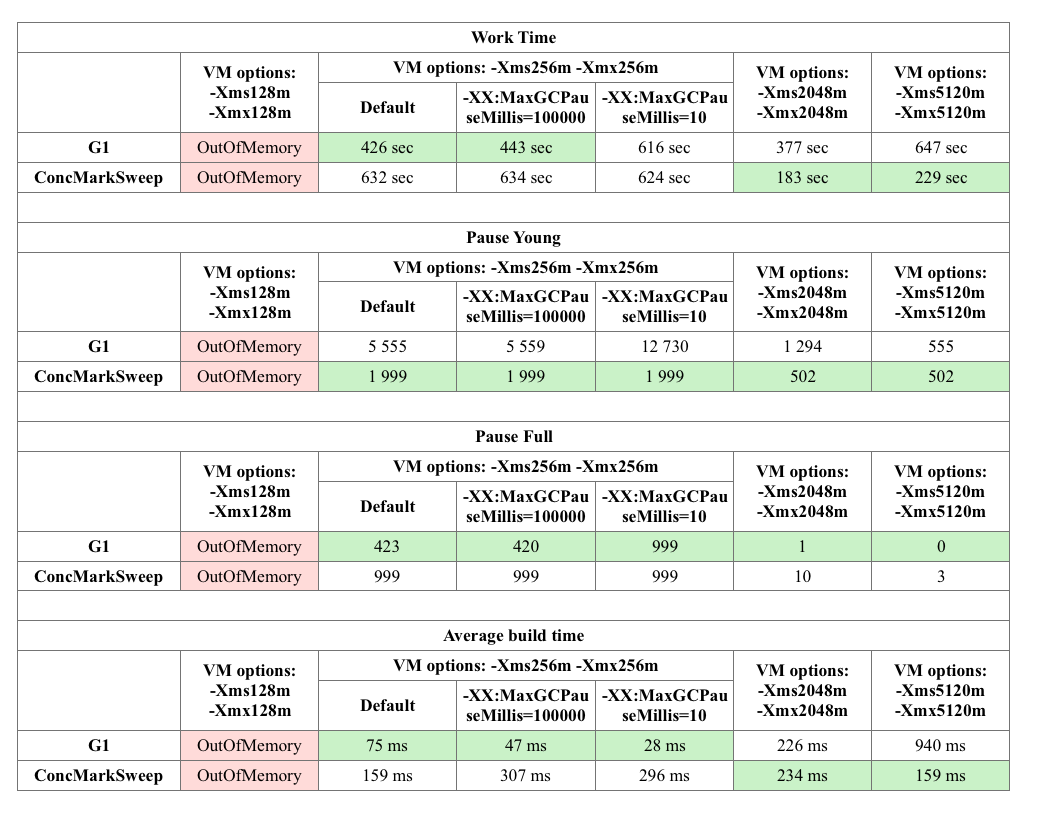
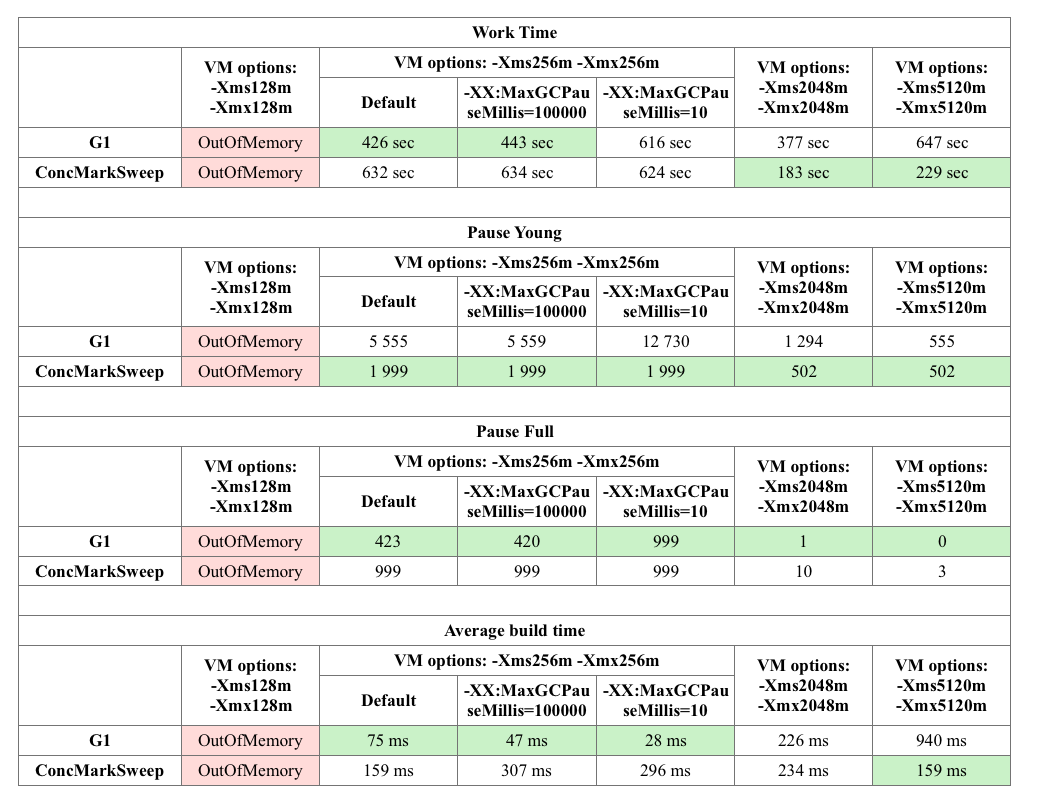
Выполнено домашнее задание №3

Changed region(s): [[0.0, 0.0, 0.9743, 0.9877], [0.8525, 0.3086, 0.9439, 0.3704]]

diff --git a/hw03-garbageCollector/src/main/java/me/decentos/bench/GcDemo.java b/hw03-garbageCollector/src/main/java/me/decentos/bench/GcDemo.java
@@ -1,0 +1,71 @@
+package me.decentos.bench;
+
+import com.sun.management.GarbageCollectionNotificationInfo;
+
+import javax.management.MBeanServer;
+import javax.management.NotificationEmitter;
+import javax.management.NotificationListener;
+import javax.management.ObjectName;
+import javax.management.openmbean.CompositeData;
+import java.lang.management.GarbageCollectorMXBean;
+import java.lang.management.ManagementFactory;
+import java.util.List;
+
+/*
+-Xms256m
+-Xmx256m
+-Xlog:gc=debug:file=./hw03-garbageCollector/logs/gc-%p-%t.log:tags,uptime,time,level:filecount=5,filesize=10m
+-XX:+HeapDumpOnOutOfMemoryError
+-XX:HeapDumpPath=./logs/dump
+-XX:+UseG1GC
+*/
+
+/*
+1) default
+2) -XX:MaxGCPauseMillis=100000
+3) -XX:MaxGCPauseMillis=10
+4) -Xms2048m -Xmx2048m
+5) -Xms5120m -Xmx5120m
+*/
+
+public class GcDemo {
+    public static void main(String... args) throws Exception {
+        System.out.println("Starting pid: " + ManagementFactory.getRuntimeMXBean().getName());
+        switchOnMonitoring();
+        long beginTime = System.currentTimeMillis();
+
+        int size = 5 * 1000 * 1000;
+        int loopCounter = 1000;
+        MBeanServer mbs = ManagementFactory.getPlatformMBeanServer();
+        ObjectName name = new ObjectName("me.decentos:type=Benchmark");
+
+        Benchmark mbean = new Benchmark(loopCounter);
+        mbs.registerMBean(mbean, name);
+        mbean.setSize(size);
+        mbean.run();
+
+        System.out.println("time:" + (System.currentTimeMillis() - beginTime) / 1000);
+    }
+
+    private static void switchOnMonitoring() {
+        List<GarbageCollectorMXBean> gcbeans = java.lang.management.ManagementFactory.getGarbageCollectorMXBeans();
+        for (GarbageCollectorMXBean gcbean : gcbeans) {
+            System.out.println("GC name:" + gcbean.getName());
+            NotificationEmitter emitter = (NotificationEmitter) gcbean;
+            NotificationListener listener = (notification, handback) -> {
+                if (notification.getType().equals(GarbageCollectionNotificationInfo.GARBAGE_COLLECTION_NOTIFICATION)) {
+                    GarbageCollectionNotificationInfo info = GarbageCollectionNotificationInfo.from((CompositeData) notification.getUserData());
+                    String gcName = info.getGcName();
+                    String gcAction = info.getGcAction();
+                    String gcCause = info.getGcCause();
+
+                    long startTime = info.getGcInfo().getStartTime();
+                    long duration = info.getGcInfo().getDuration();
+
+                    System.out.println("start:" + startTime + " Name:" + gcName + ", action:" + gcAction + ", gcCause:" + gcCause + "(" + duration + " ms)");
+                }
+            };
+            emitter.addNotificationListener(listener, null, null);
+        }
+    }
+}

diff --git a/hw03-garbageCollector/src/main/java/me/decentos/bench/Benchmark.java b/hw03-garbageCollector/src/main/java/me/decentos/bench/Benchmark.java
@@ -1,0 +1,33 @@
+package me.decentos.bench;
+
+class Benchmark implements BenchmarkMBean {
+    private final int loopCounter;
+    private volatile int size = 0;
+
+    public Benchmark(int loopCounter) {
+        this.loopCounter = loopCounter;
+    }
+
+    void run() throws InterruptedException {
+        for (int idx = 0; idx < loopCounter; idx++) {
+            int local = size;
+            Object[] array = new Object[local];
+            for (int i = 0; i < local; i++) {
+                array[ i ] = new String(new char[0]);
+            }
+            Thread.sleep(10);
+        }
+    }
+
+    @Override
+    public int getSize() {
+        return size;
+    }
+
+    @Override
+    public void setSize(int size) {
+        System.out.println("new size:" + size);
+        this.size = size;
+    }
+
+}

diff --git a/hw03-garbageCollector/src/main/java/me/decentos/bench/BenchmarkMBean.java b/hw03-garbageCollector/src/main/java/me/decentos/bench/BenchmarkMBean.java
@@ -1,0 +1,7 @@
+package me.decentos.bench;
+
+public interface BenchmarkMBean {
+    int getSize();
+
+    void setSize(int size);
+}

diff --git a/hw03-garbageCollector/Сonclusions.md b/hw03-garbageCollector/Сonclusions.md
@@ -1,0 +1,49 @@
+Сравнение разных сборщиков мусора:
+
+**G1:**
+
+1. При передаче "VM options: -Xms128m -Xmx128m" произошло java.lang.OutOfMemoryError: Java heap space
+2. VM options: -Xms256m -Xmx256m:
+
+    2.1. Default, time: 426 sec, Yong = 5 555, Full = 423, Avg build time = 75 ms
+
+    2.2. -XX:MaxGCPauseMillis=100000, time: 443 sec, Yong = 5 559, Full = 420, Avg build time = 47 ms
+
+    2.3. -XX:MaxGCPauseMillis=10, time: 616 sec, Yong = 12 730, Full = 999, Avg build time = 28 ms
+
+3. VM options: -Xms2048m -Xmx2048m, time: 377 sec, Yong = 1 294, Full = 1, Avg build time = 226 ms
+4. VM options: -Xms5120m -Xmx5120m, time: 647 sec, Yong = 555, Full = 0, Avg build time = 940 ms
+
+**ConcMarkSweep:**
+
+1. При передаче "VM options: -Xms128m -Xmx128m" произошло java.lang.OutOfMemoryError: Java heap space
+2. VM options: -Xms256m -Xmx256m:
+
+    2.1. Default, time: 632 sec, Yong = 1 999, Full = 999, Avg build time = 159 ms
+
+    2.2. -XX:MaxGCPauseMillis=100000, time: 634 sec, Yong = 1 999, Full = 999, Avg build time = 307 ms
+
+    2.3. -XX:MaxGCPauseMillis=10, time: 624 sec, Yong = 1 999, Full = 999, Avg build time = 296 ms
+
+3. VM options: -Xms2048m -Xmx2048m, time: 183 sec, Yong = 502, Full = 10, Avg build time = 234 ms
+4. VM options: -Xms5120m -Xmx5120m, time: 229 sec, Yong = 502, Full = 3, Avg build time = 159 ms
+
+**Сравнительная таблица:**
+
+![GC Compare Table](https://github.com/decentos/OtusJavaProject/tree/hw03-garbageCollector/hw03-garbageCollector/GcCompareTable.png)
+
+**Выводы:**
+
+При сравнении двух Garbage Collector (G1 и ConcMarkSweep) можно сделать следующий вывод: 
+1. Программа быстрее завершила работу при использовании G1, если под работу JVM выделено небольшое количество оперативной памяти (тестировалась работа на 256m).
+2. Если под работу JVM выделяется более 2048m, то программа завершает выполнение быстрее при использовании ConcMarkSweep.
+3. При использовании ConcMarkSweep реже происходит сборка мусора Young Generation вне зависимости от переданных параметров в JVM.
+4. При использовании G1 реже происходит сборка мусора Old (Full) Generation вне зависимости от переданных параметров в JVM.
+5. Если под работу JVM выделяется до 256m, то среднее время сборки мусора у G1 в несколько раз меньше, чем у ConcMarkSweep.
+6. Если под работу JVM выделяется более 5120m, то среднее время сборки мусора у ConcMarkSweep в несколько раз меньше, чем у G1.
+
+**Итог:**
+
+При использовании небольшого (до 256m) количество оперативной памяти в приложении рекомендуется использовать G1, 
+так как он показал себя намного эффективнее, чем ConcMarkSweep. 
+При использовании большого (от 2048m) количество оперативной памяти в приложении следует воспользоваться ConcMarkSweep.
